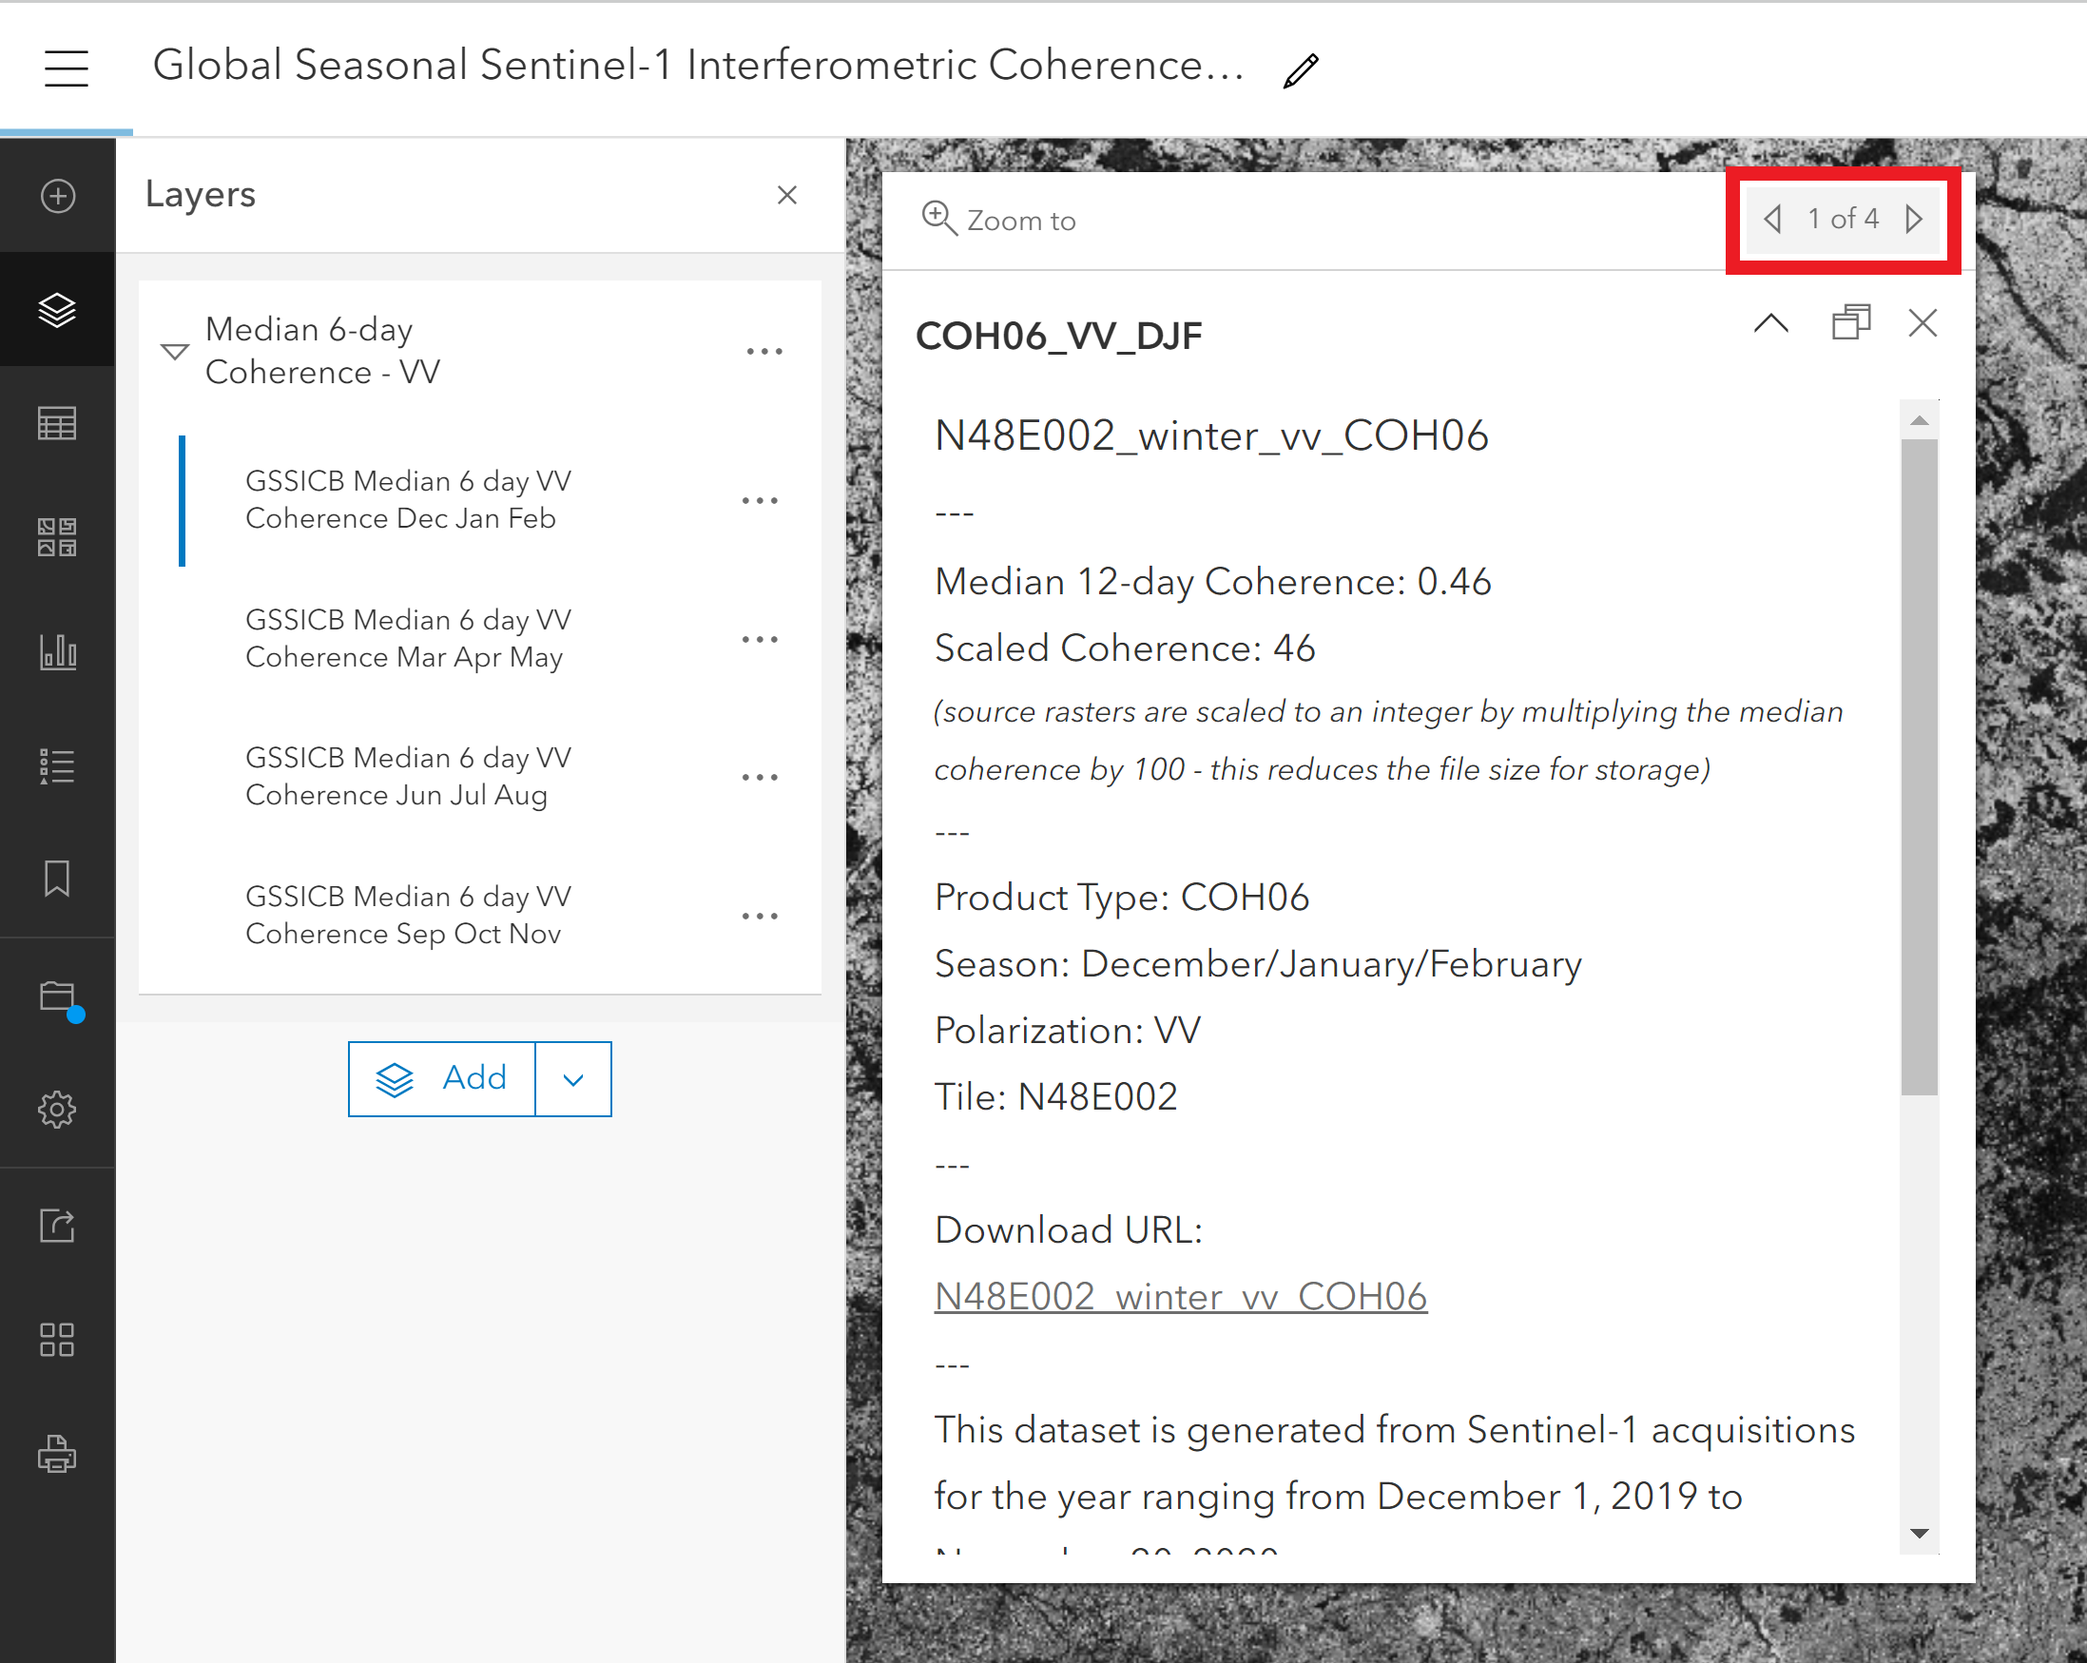
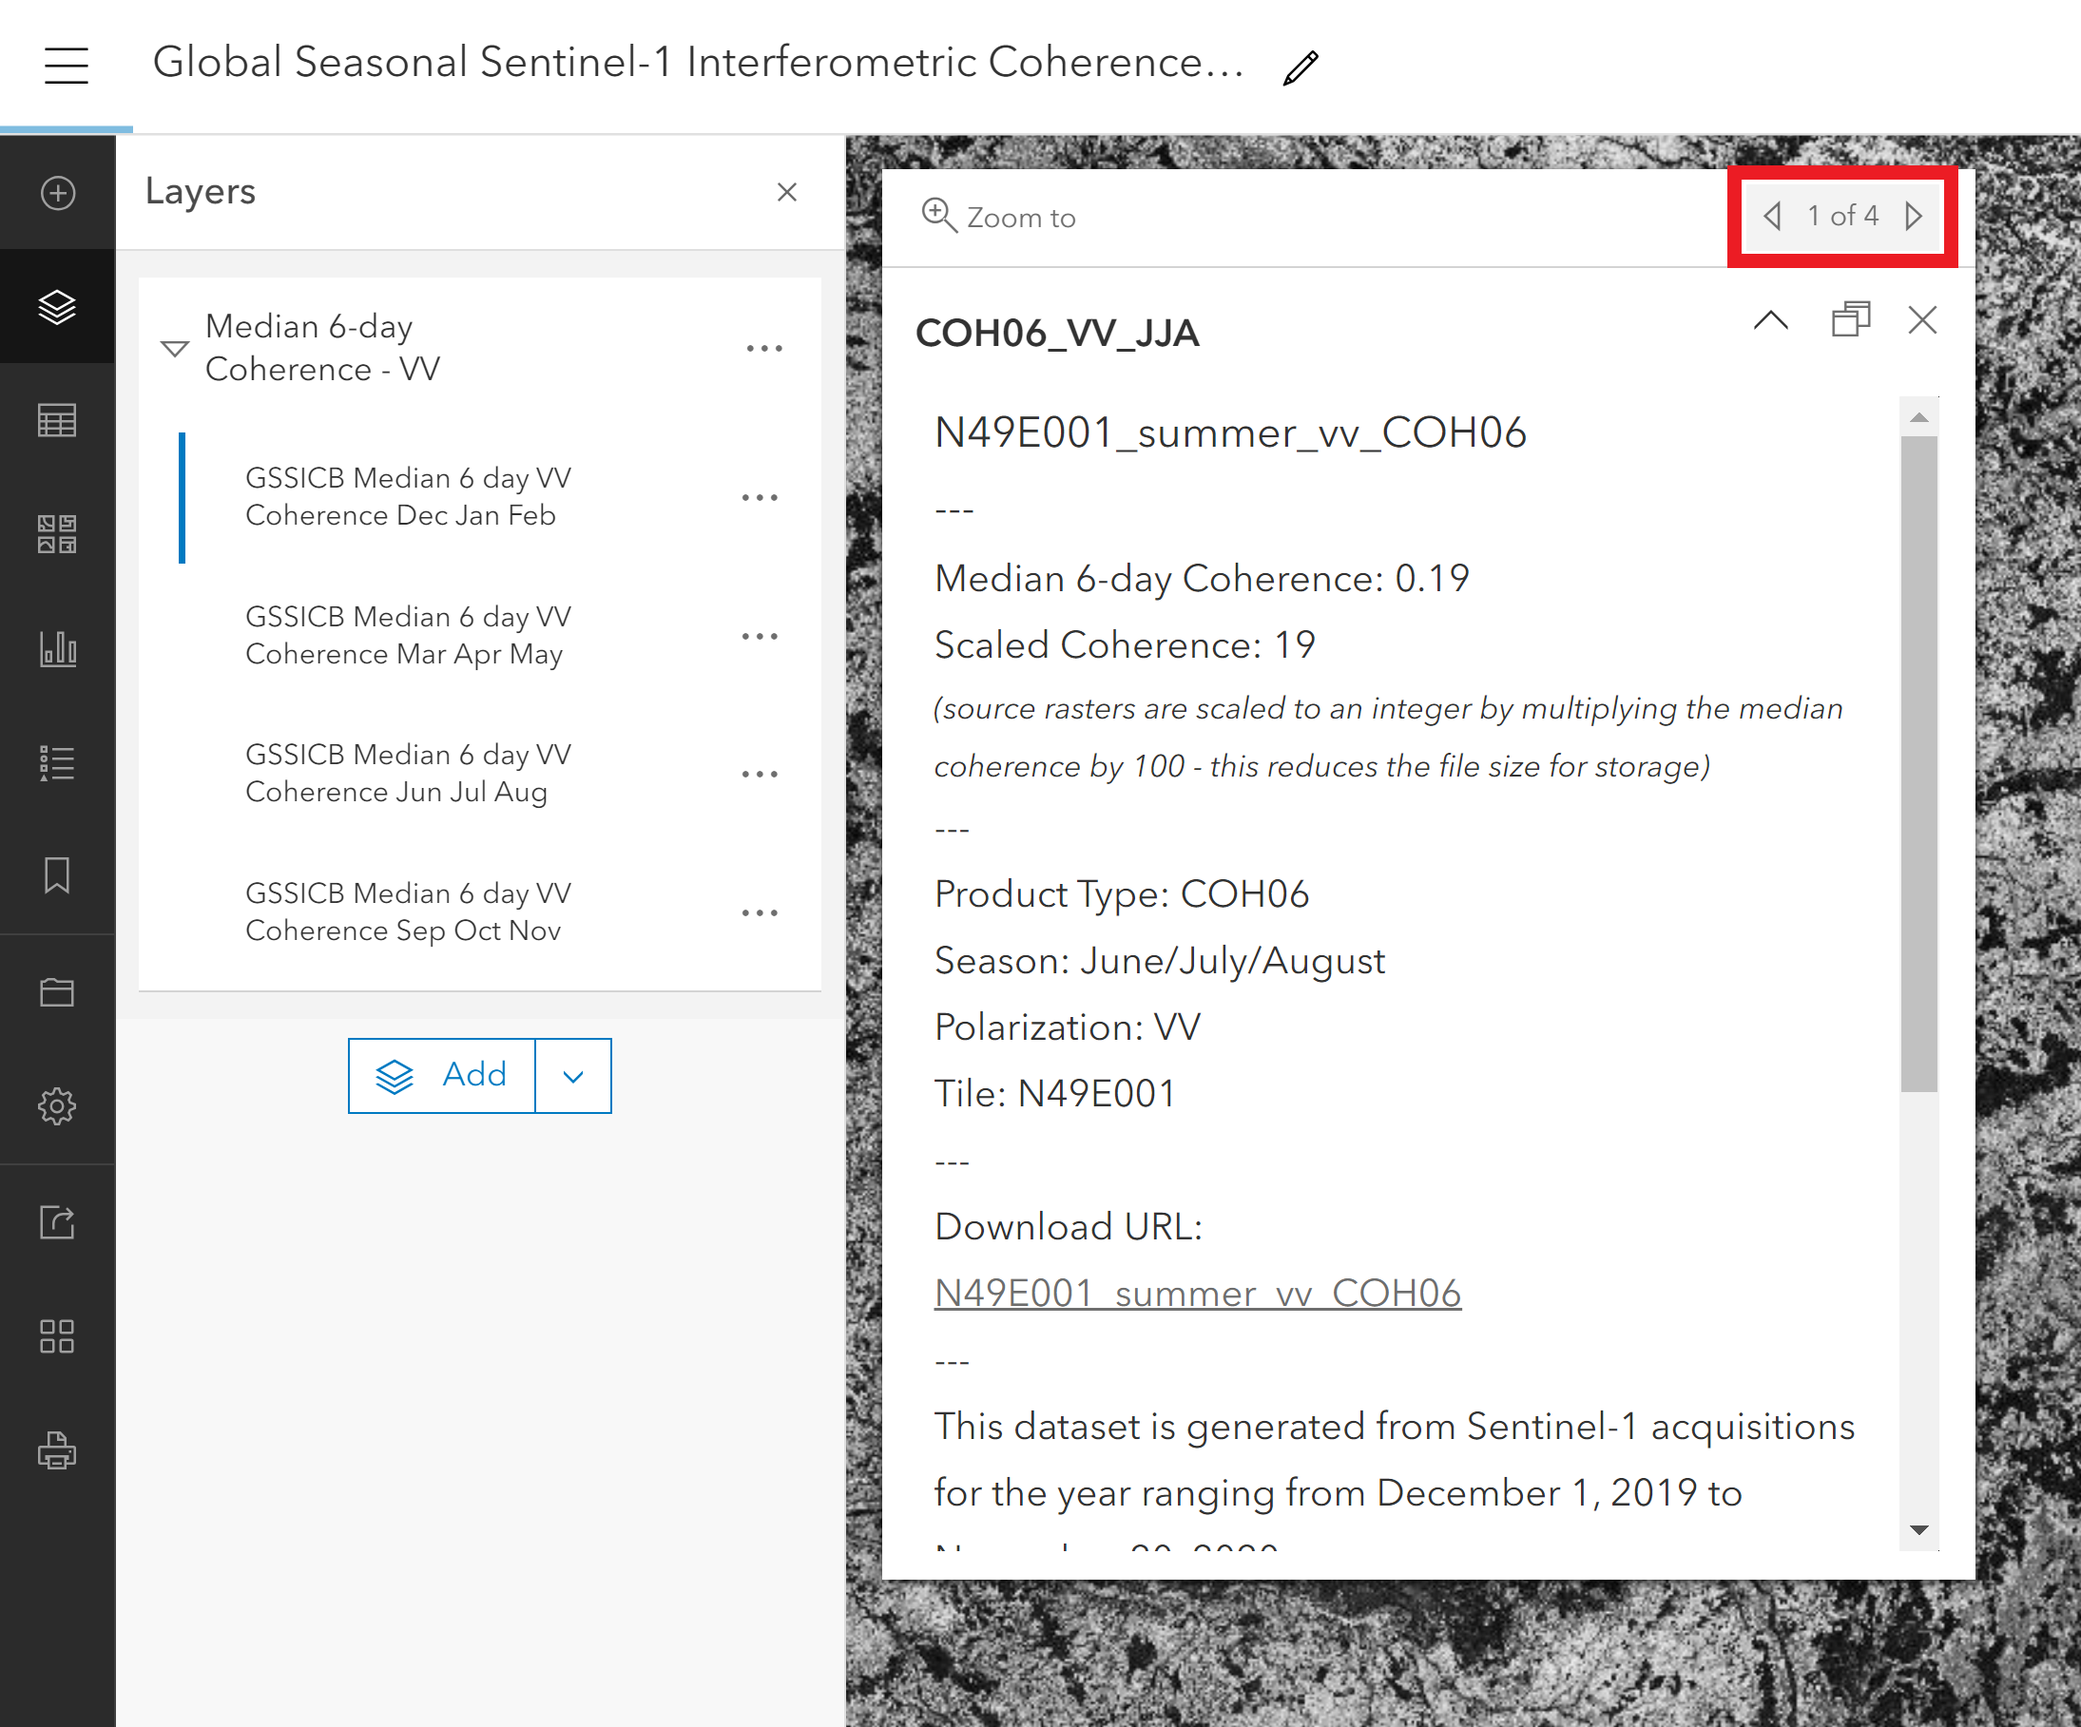
correct pop-up text references

diff --git a/image_services/egis/docs/publishing_GSSICB_webmap.md b/image_services/egis/docs/publishing_GSSICB_webmap.md
@@ -94,7 +94,6 @@ Pop-up content can be easily copied from one layer and pasted to another, as the
       7. Click on the **Text** box in the Pop-ups window and click the **Click here to add text** box
       8. Click the **Source** icon
       9. Paste the source code from the other pop-up
-
       10. Click the **Source** button again, then click the **OK** button
       ![Paste Source Code](images/egis-paste-source.png)
 8. Click on the handle of the **Text** component and drag it above the **Fields list** component
@@ -108,6 +107,47 @@ Pop-up content can be easily copied from one layer and pasted to another, as the
     ![Check Pop-ups](images/egis-popup-check.png)
        - If the unscaled coherence values are 0 or 1 (and the scaled coherence is anything other than 0 or 100), it indicates that the numeric settings for significant digits were not successfully applied. Refer to the [Set Field Properties section](#set-field-properties) for more information.
          ![Check SigDigs](images/egis-popup-check-bad.png)
+
+For reference, this is a sample of the source code used for the COH06 services: 
+```commandline
+<p>
+    <span style="font-size:large;">{Name}</span>&nbsp;
+    <br>
+    <span style="font-size:large;">---&nbsp;</span>&nbsp;
+    <br>
+    <span style="font-size:medium;">Median 6-day Coherence: {Raster.ServicePixelValue.Unscaled Coherence}</span>&nbsp;
+    <br>
+    <span style="font-size:medium;">Scaled Coherence: {Raster.ServicePixelValue.Scaled Coherence}</span>&nbsp;
+    <br>
+    <span style="font-size:small;"><i>(source rasters are scaled to an integer by multiplying the median coherence by 100 - this reduces the file size for storage)</i></span>&nbsp;
+    <br>
+    <span style="font-size:medium;">---&nbsp;</span>&nbsp;
+    <br>
+    <span style="font-size:medium;">Product Type: {ProductType}</span>&nbsp;
+    <br>
+    <span style="font-size:medium;">Season: {Season}</span>&nbsp;
+    <br>
+    <span style="font-size:medium;">Polarization: {Polarization}</span>&nbsp;
+    <br>
+    <span style="font-size:medium;">Tile: {Tile}</span>&nbsp;
+    <br>
+    <span style="font-size:medium;">---&nbsp;</span>&nbsp;
+    <br>
+    <span style="font-size:medium;">Download URL:&nbsp;</span>&nbsp;
+    <br>
+    <a href="{DownloadURL}" target="_blank"><span style="font-size:medium;">{URLDisplay}</span></a><span style="font-size:medium;">&nbsp;</span>&nbsp;
+    <br>
+    <span style="font-size:medium;">---</span>&nbsp;
+    <br>
+    <span style="font-size:medium;">This dataset is generated from Sentinel-1 acquisitions for the year ranging from December 1, 2019 to November 20, 2020.&nbsp;</span>&nbsp;
+    <br>
+    <a target="_blank" rel="noopener noreferrer" href="https://sentinel.esa.int/web/sentinel/missions/sentinel-1"><span style="font-size:medium;">Sentinel-1</span></a><span style="font-size:medium;">&nbsp;is a C-band SAR mission developed by ESA. This dataset contains&nbsp;modified Copernicus Sentinel data 2019-2020, processed by ESA.</span>&nbsp;
+    <br>
+    <span style="font-size:medium;">---</span>&nbsp;
+    <br>
+    <span style="font-size:medium;">The&nbsp;</span><a target="_blank" rel="noopener noreferrer" href="https://registry.opendata.aws/ebd-sentinel-1-global-coherence-backscatter/"><span style="font-size:medium;">Global Seasonal Sentinel-1 Interferometric Coherence and Backscatter Data Set</span></a><span style="font-size:medium;">&nbsp;was developed by&nbsp;</span><a target="_blank" rel="noopener noreferrer" href="https://earthbigdata.com/"><span style="font-size:medium;">Earth Big Data LLC</span></a><span style="font-size:medium;">&nbsp;and&nbsp;</span><a target="_blank" rel="noopener noreferrer" href="https://www.gamma-rs.ch/"><span style="font-size:medium;">Gamma Remote Sensing AG</span></a><span style="font-size:medium;">, under contract for&nbsp;</span><a target="_blank" rel="noopener noreferrer" href="https://jpl.nasa.gov/"><span style="font-size:medium;">NASA's Jet Propulsion Laboratory</span></a><span style="font-size:medium;">.</span>
+</p>
+```
 12. Zoom to a global extent, then save the map
    
 ## Share a Web Map
